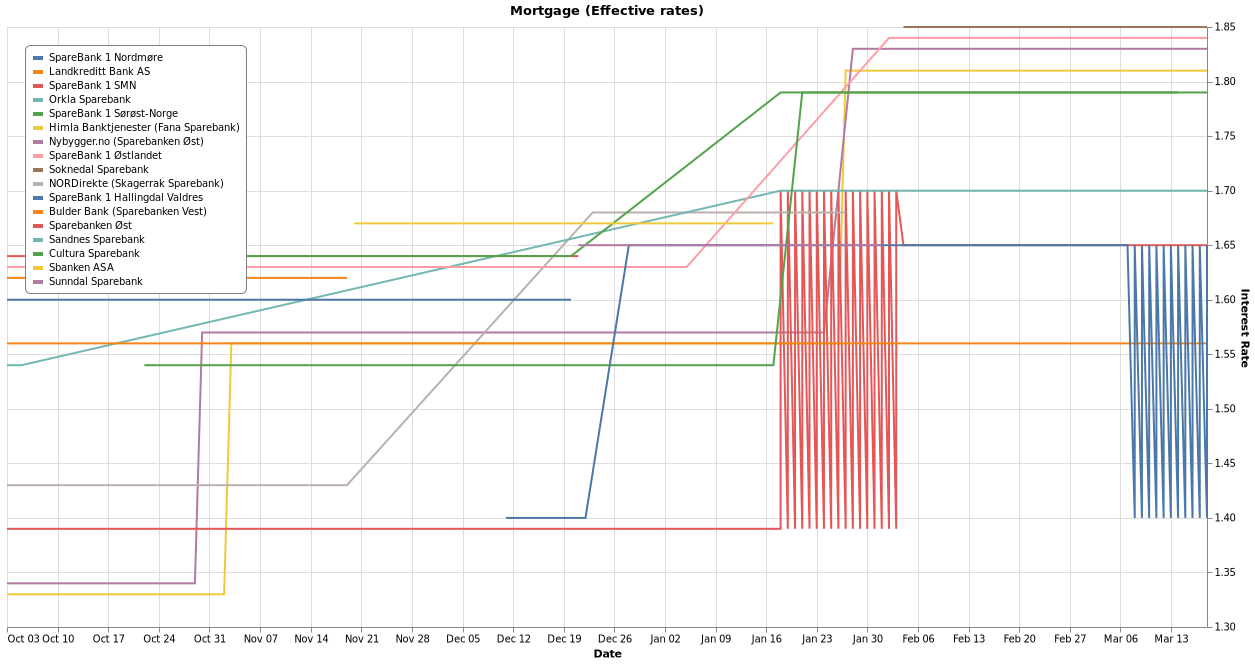
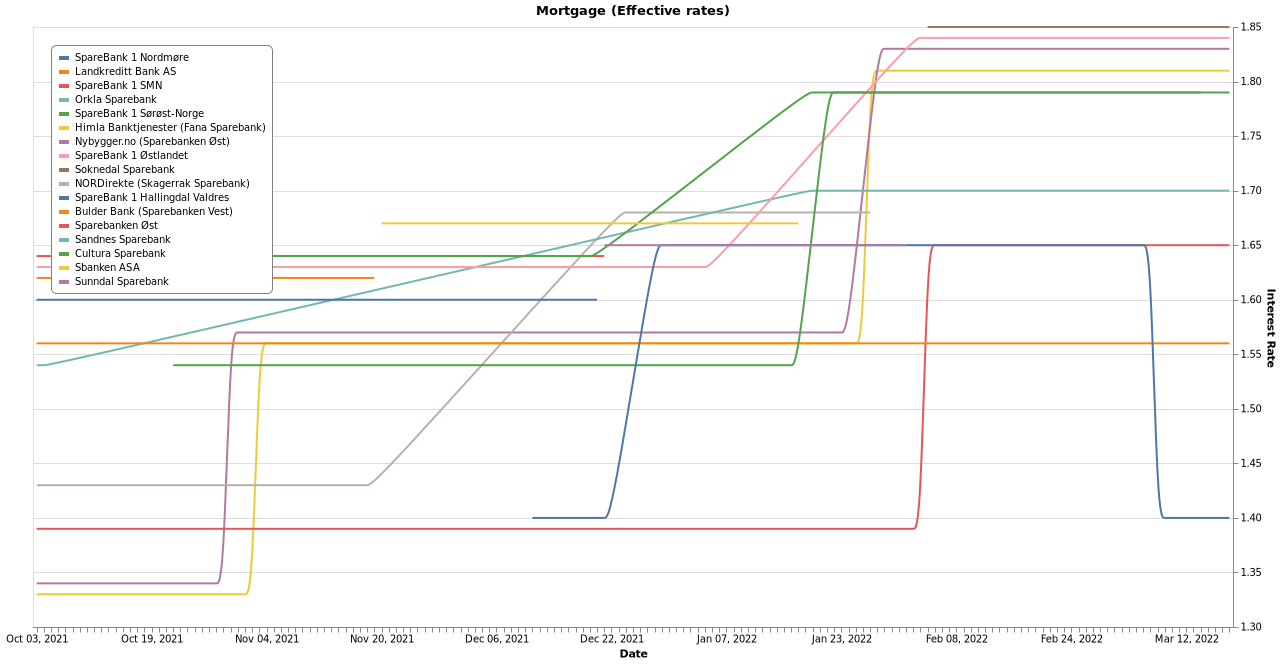
Fix duplicate bank entries in mortage graph

diff --git a/graphs.py b/graphs.py
@@ -11,13 +11,14 @@ def mortgage():
         parse_dates=["date"],
         usecols=["date", "bank", "rate_effective"],
     )
+    df = df.drop_duplicates(subset=["date", "bank"], keep="first")
     df_last = df[(df["date"] >= (df["date"].max()))]
 
     chart = (
         alt.Chart(df, title="Mortgage (Effective rates)")
-        .mark_line()
+        .mark_line(interpolate="basis")
         .encode(
-            x=alt.X("date", axis=alt.Axis(title="Date")),
+            x=alt.X("yearmonthdate(date):O", axis=alt.Axis(title="Date")),
             y=alt.Y(
                 "rate_effective:Q",
                 title="Interest Rate",
